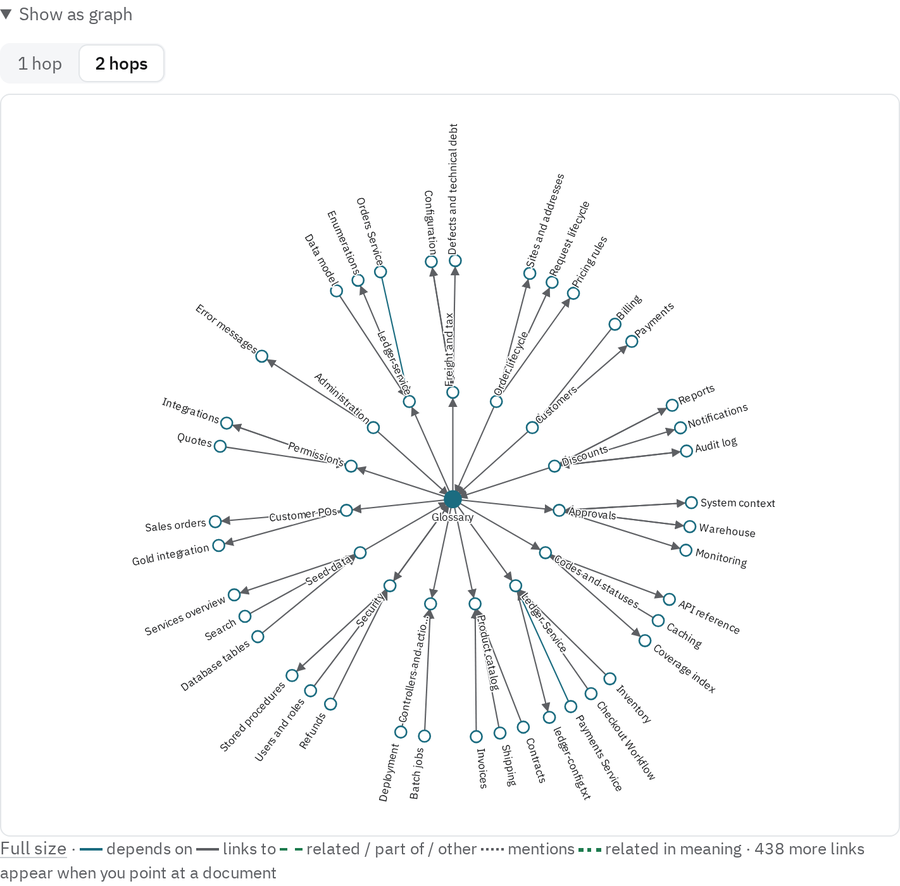
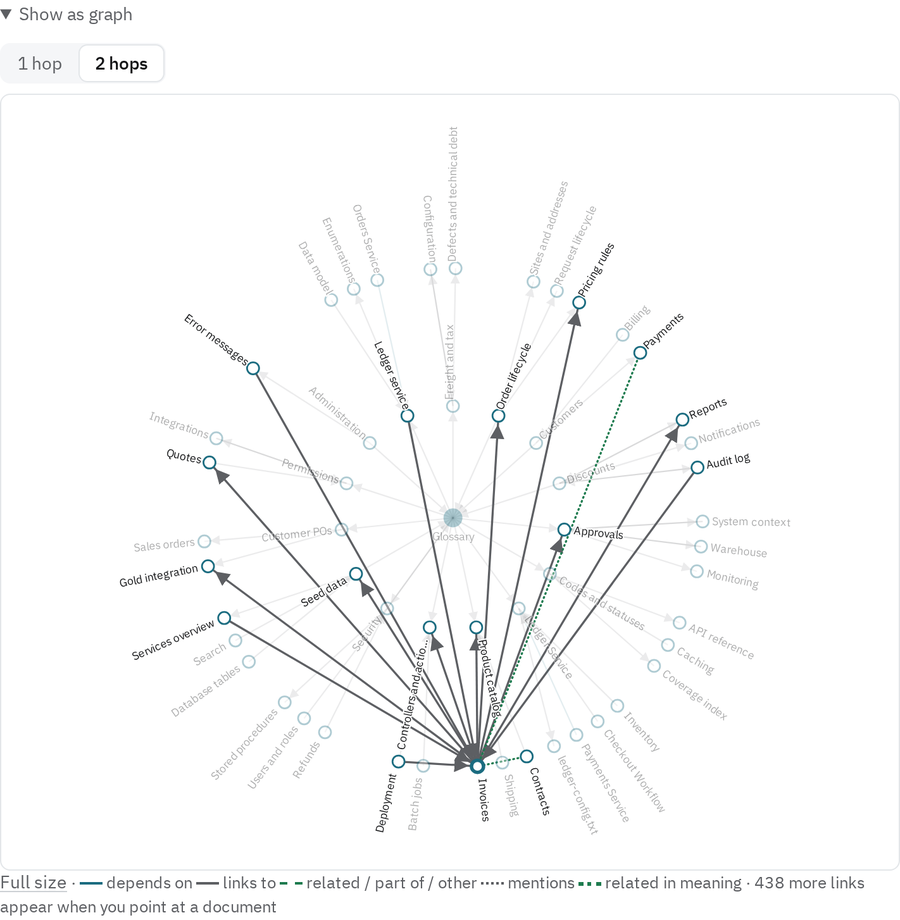
README: passage screenshot no longer cut off; both screenshots at equal width
The passage image was cropped from a full-page capture and lost its left side. Both are now
captured as whole elements (the panel, the graph box) after the slide-in finishes.

Claude-Session: https://claude.ai/code/session_01CZrTR7byuWxCG3D2Fw3pFJ

diff --git a/README.md b/README.md
@@ -84,8 +84,8 @@ images are not read yet (no OCR).
 
 <table>
   <tr>
-    <td width="44%"><img src="docs/screenshots/ferret-passage.png" alt="Passage panel with the cited passage, AI summary and connections"></td>
-    <td width="56%"><img src="docs/screenshots/ferret-graph.png" alt="Connection graph of a densely linked wiki, two hops"></td>
+    <td width="50%" valign="top"><img src="docs/screenshots/ferret-passage.png" alt="Passage panel with the cited passage, AI summary and connections"></td>
+    <td width="50%" valign="top"><img src="docs/screenshots/ferret-graph.png" alt="Connection graph of a densely linked wiki, two hops"></td>
   </tr>
   <tr>
     <td align="center"><sub>The passage in context, with its document's summary and connections</sub></td>
